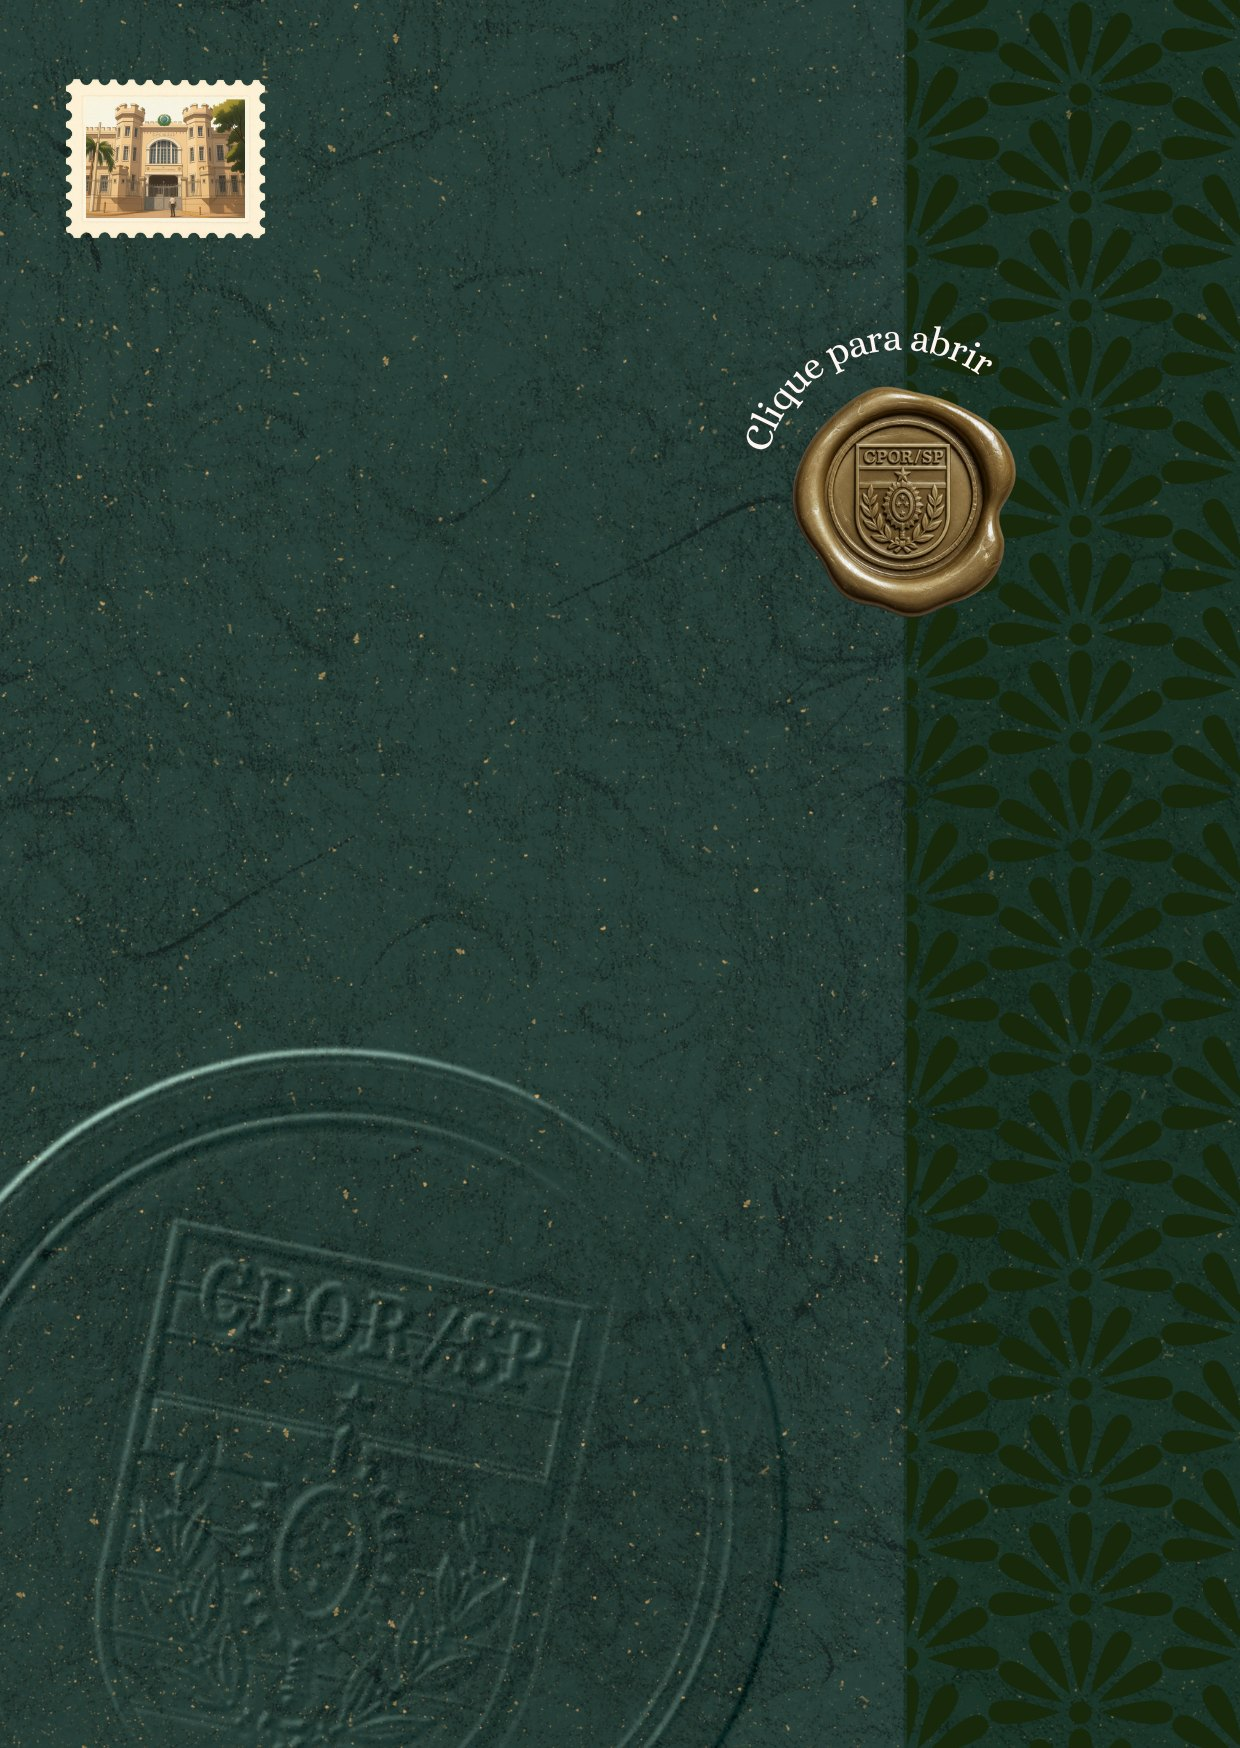
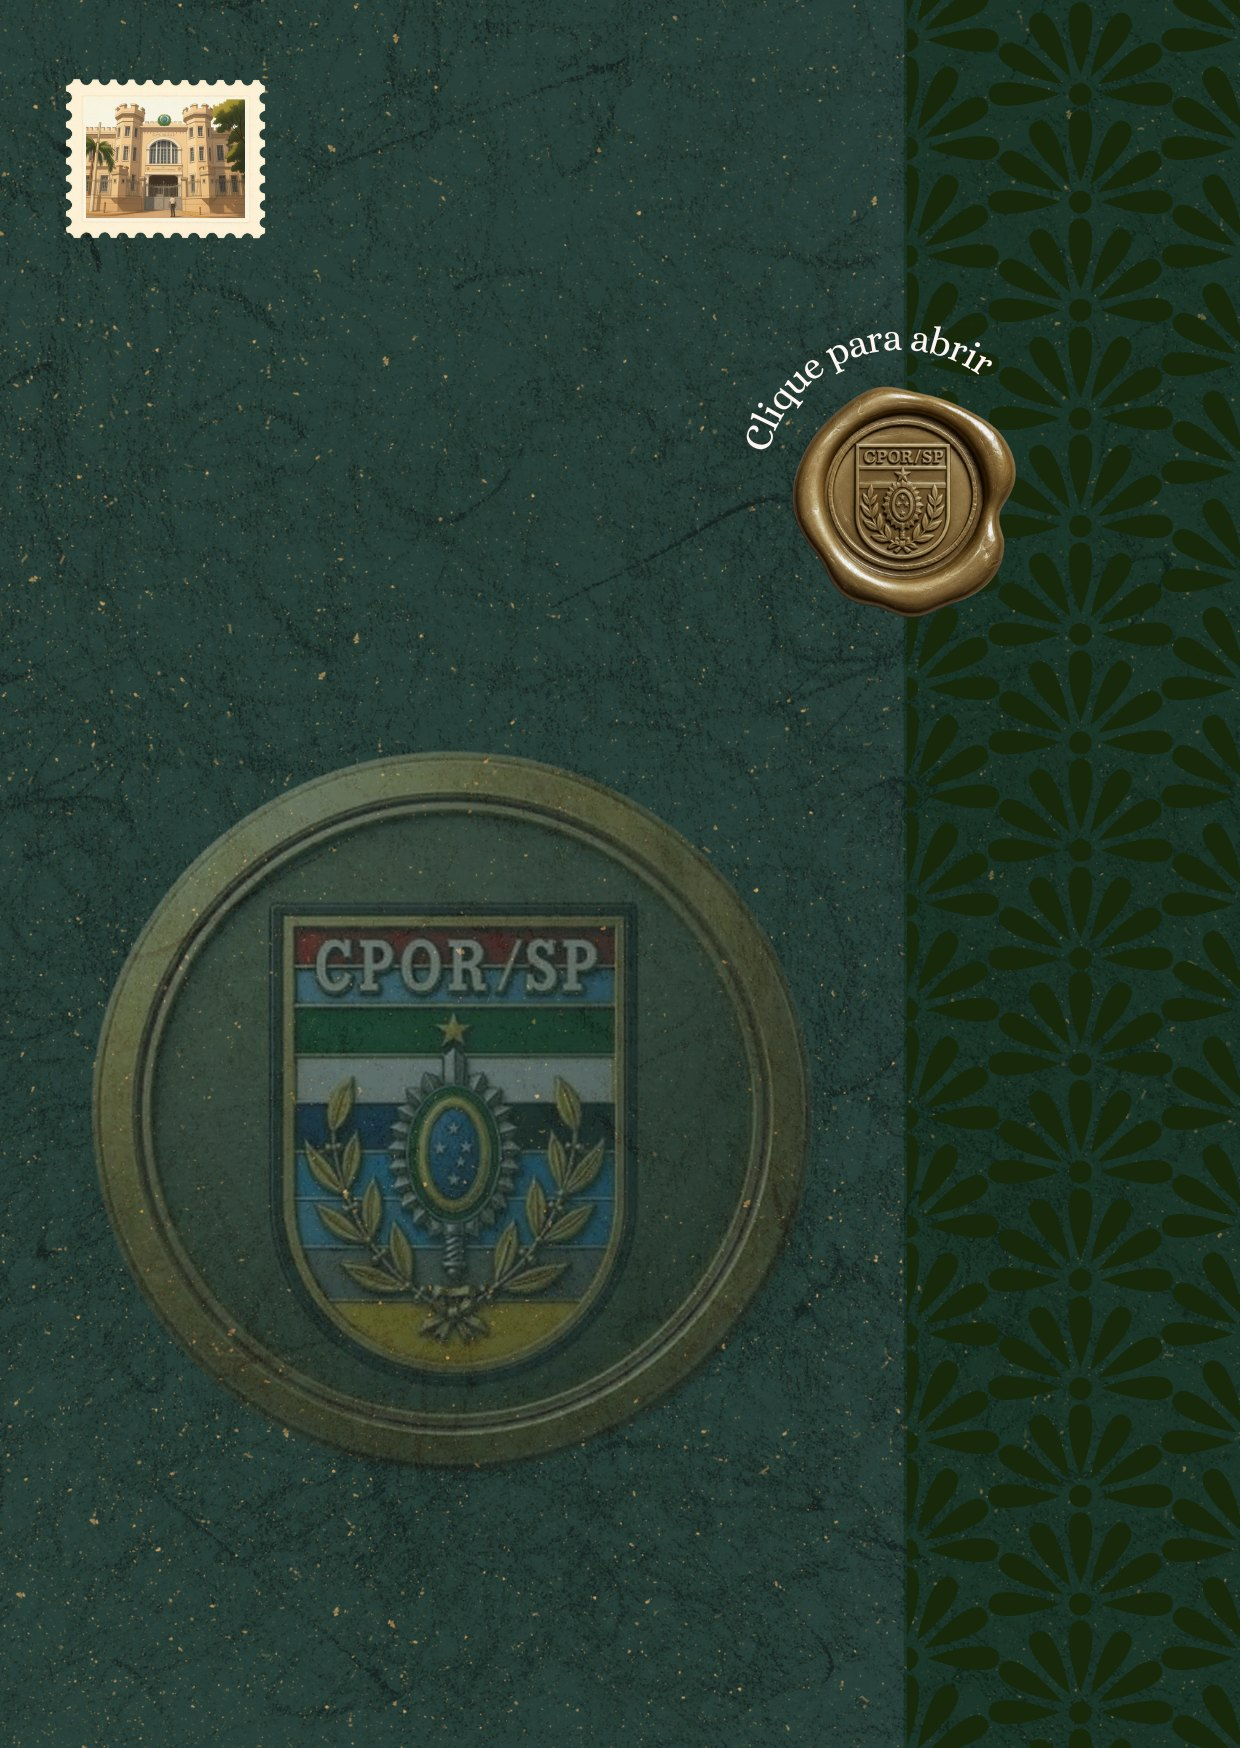
Capa 2 com brasão colorido centralizado; foto da capa 3 maior
Claude-Session: https://claude.ai/code/session_01V1TRpwwDnXHGDhL8kQ61XA

diff --git a/opcoes.html b/opcoes.html
@@ -60,9 +60,9 @@
       <div class="nota">Envelope com selo de cera</div>
     </a>
     <a href="capa-marca-dagua.html">
-      <img src="assets/convite-1-marca.jpg" alt="Capa com o brasão em relevo">
-      <div class="nome">2 · Brasão em relevo</div>
-      <div class="nota">Marca-d'água no papel</div>
+      <img src="assets/convite-1-marca.jpg" alt="Capa com o brasão como marca-d'água">
+      <div class="nome">2 · Brasão</div>
+      <div class="nota">Marca-d'água colorida</div>
     </a>
     <a href="capa-foto.html">
       <img src="assets/convite-1-foto.jpg" alt="Capa com a foto aérea do CPOR/SP">

diff --git a/README.md b/README.md
@@ -21,7 +21,7 @@ As três ficam lado a lado em `opcoes.html`.
 
 Só a capa (envelope) muda; o resto é igual.
 - `index.html` — capa original
-- `capa-marca-dagua.html` — brasão do CPOR/SP em relevo no papel, como marca-d'água, grande, no canto e levemente girado
+- `capa-marca-dagua.html` — brasão colorido do CPOR/SP, translúcido como marca-d'água, grande e centralizado
 - `capa-foto.html` — foto aérea do CPOR/SP como uma fotografia sobre o papel, ocupando o espaço abaixo do selo
 
 Se mudar algo no `index.html`, gere as outras duas de novo trocando `assets/convite-1.jpg` por `assets/convite-1-marca.jpg` ou `assets/convite-1-foto.jpg`.
